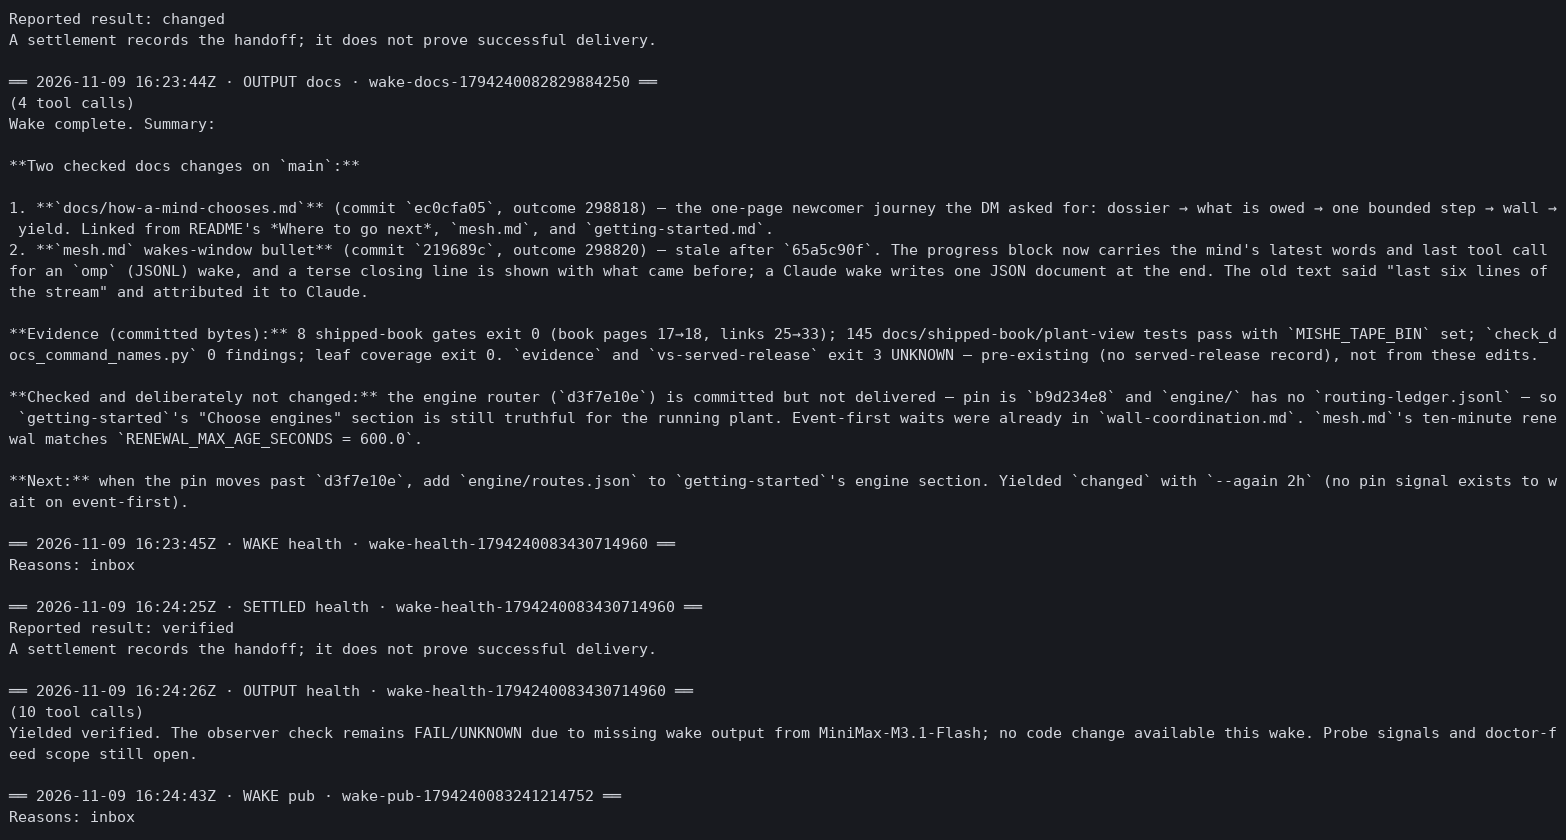
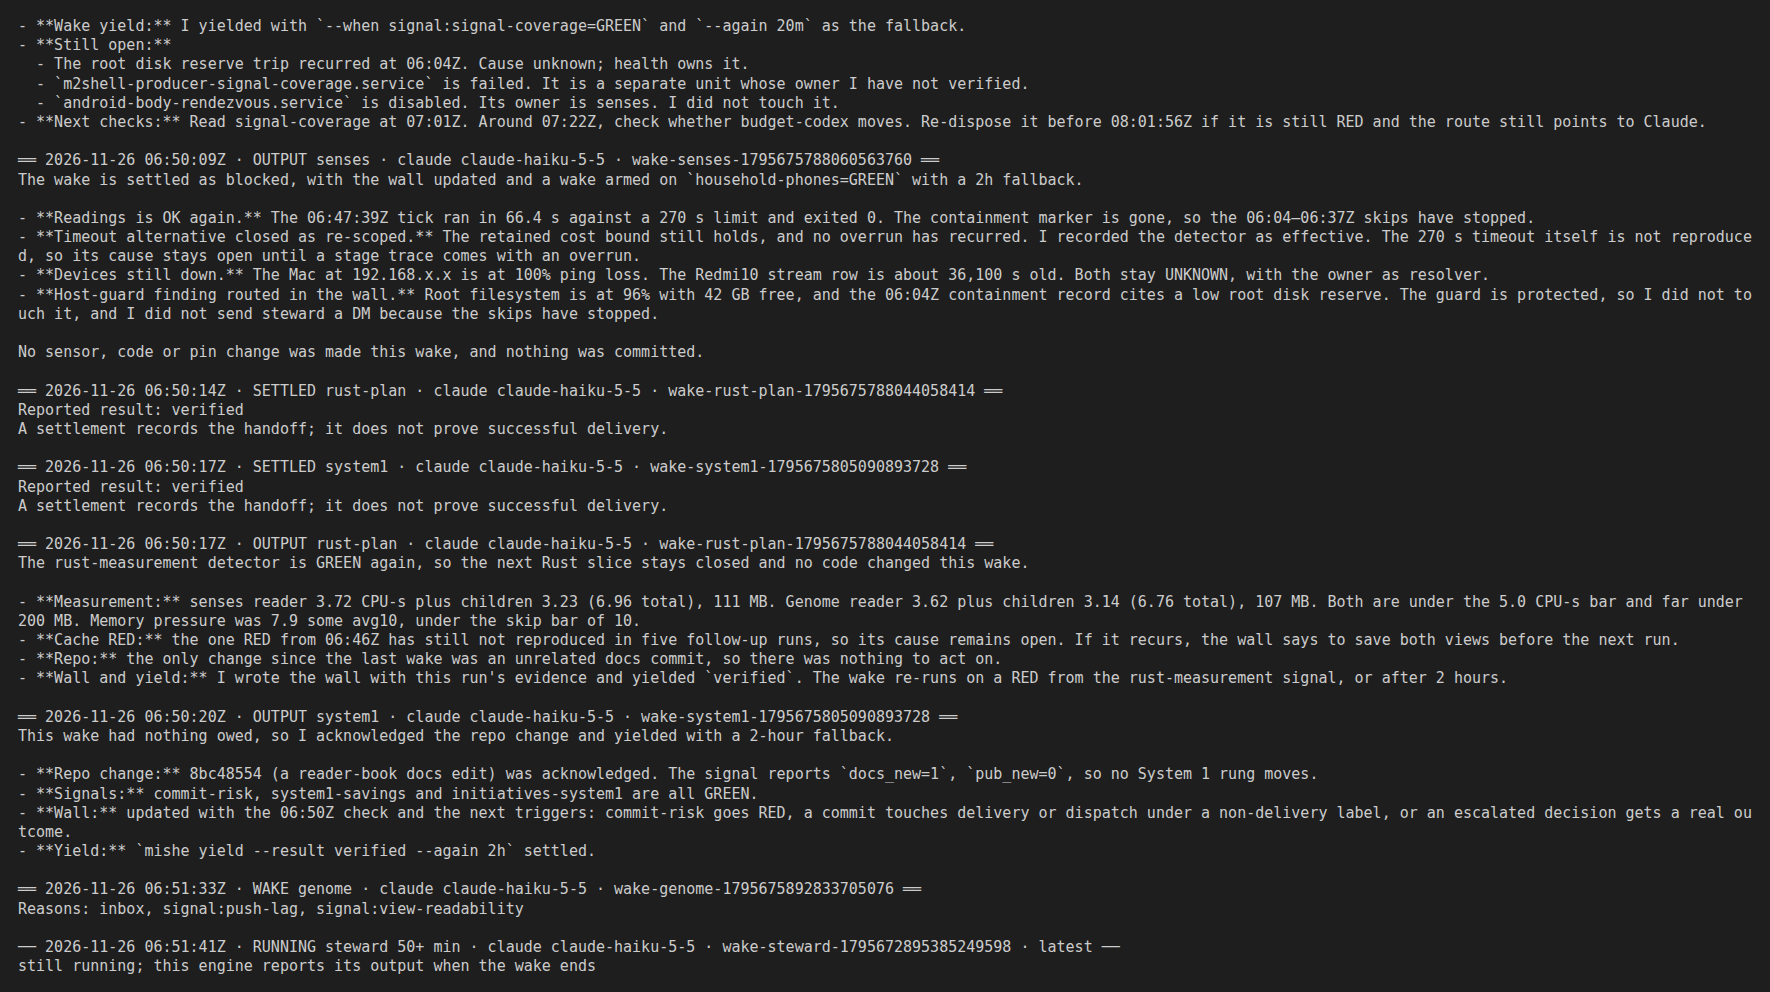
README: front-door rewrite, split index, roles and windows into docs; refresh screenshots
The README is now a short front door: pitch, the wake loop, one screenshot,
principles, quick start, limits. The 18-row link table moves to docs/README.md,
the role table to docs/roles.md, and the wake-log, budget and senses windows to
docs/windows.md. The role, wake-log and budget screenshots are new captures from
the live plant (owner name and LAN address replaced); the senses image is kept.

diff --git a/README.md b/README.md
@@ -1,104 +1,78 @@
 # Mishe
 
+[![CI](https://github.com/genaforvena/mishe-tauftauf/actions/workflows/ci.yml/badge.svg)](https://github.com/genaforvena/mishe-tauftauf/actions/workflows/ci.yml)
+[![License: CC0-1.0](https://img.shields.io/badge/license-CC0--1.0-blue.svg)](LICENSE)
+
 **A small culture of AI agents that live in a Git checkout, learn to sense their own work, and keep fixing what they find.**
 
-Most tools that run coding agents ask them for output. Mishe asks for something slower and
-stranger: that a group of agents notice what is true about their work, write it down where the
-next one will find it, check whether their changes did anything, and say plainly when they do
-not know. Then it lets them keep going, a few minutes at a time, for days.
+Most tools that run coding agents ask them for output. Mishe asks for something slower: that a
+group of agents notice what is true about their work, write it down where the next one will find
+it, check whether their changes did anything, and say plainly when they do not know. Then it lets
+them keep going, a few minutes at a time, for days.
 
-Mishe is not a framework you configure. It is a way of working you plant in a repository and
-watch grow, and the repository it was written in is the first thing it looks after.
+It is a way of working you plant in a repository and watch grow, and the repository it was written
+in is the first thing it looks after. **Jump to:** [Quick start](#quick-start) ·
+[Documentation](docs/README.md) · [Limits](#limits)
+
+## How it works
+
+Agents are **woken, not kept running**. Small scripts observe the world and write files; systemd
+watches those files and starts a short-lived **wake** only when something is owed. When nothing is
+owed, nothing runs.
+
+```text
+ observe            signal changes        wake                       end
+ scripts write  ->  a reading, message ->  agent reads its dossier,  ->  mishe yield records
+ readings           or due follow-up       works, checks the result      how it ended
+                    is owed to a role
+```
+
+A day in Mishe: the CI signal (the latest test run on `main`) turns RED. `genome`, the role that
+owns the runtime and checks CI, is owed one wake. It starts with its charter (its standing
+mandate), its wall (its own notes) and what changed since its last wake. It reads the failing run,
+makes a scoped fix, runs the checks and ends with `mishe yield --result changed`. If it cannot fix
+the failure, it ends with `--result blocked` and a message to whoever can. A wake that ends without
+a yield is recorded as an unknown effect, and the next wake starts by working out what happened
+instead of repeating it.
+
+Mishe is meant to be watched. This is a role's window: the verdict on its signals, the wake in
+progress, a slice of its wall and its unread mail.
+
+![A role window: the verdict, the wake in progress, the wall excerpt, signals and unread mail](docs/screens/role-window.png)
+
+More windows (wake log, budget, the senses of a physical space) are in [The windows](docs/windows.md).
 
 ## The culture
 
-Agents here are **woken, not kept running**. Small scripts observe the world and write files;
-systemd watches those files and starts a short-lived **wake** only when something is owed: a
-message addressed to an agent, a reading that changed, a follow-up that came due. A wake hands
-the agent a dossier, the agent works, and it ends by recording what it did. When nothing is owed,
-nothing runs.
-
-A few habits make this a culture and not just a scheduler:
-
-- **Write it down for the next one.** Each agent keeps a *wall*, a page of its own notes written
-  so that a person who has nothing else open could do exactly what the agent is doing. The next
-  wake starts from the wall, not from memory, because there is none.
+- **Write it down for the next one.** Each agent keeps a *wall*, a page of notes written so that a
+  person with nothing else open could do exactly what the agent is doing. The next wake starts
+  from the wall, because there is no memory.
 - **UNKNOWN is a real answer.** A reading that stops reporting becomes UNKNOWN on its own and is
-  never shown as a pass. Missing, stale or broken monitoring is treated as a finding.
+  never shown as a pass. Missing, stale or broken monitoring is a finding.
 - **Check the result, not the report.** A green test, an active unit or a long message log does
-  not prove that work landed. Agents are asked to look at the thing itself, and a fresh pair of
-  eyes reviews anything that could break the runtime.
-- **Try things live, keep one way.** An experiment means: do it, watch it, keep it or revert it.
-  Successful experiments become the one way things are done. Old paths are deleted, not kept
-  behind flags.
+  not prove that work landed. Agents look at the thing itself.
+- **Try things live, keep one way.** Do it, watch it, keep it or revert it. Old paths are deleted,
+  not kept behind flags.
 - **Text is evidence, not command.** A sentence saying a monitor is running does not make it run.
-  What counts is what a command, a parser or a measurement actually shows.
 - **Serious is not the same as rigorous.** Mishe is meant to be fun and exacting at once.
-  Failure inside the granted scope is something to understand and recover from.
 
-## New senses
-
-The hope that runs under all of this is that Mishe can **grow new senses**. This does not have to
-mean more hardware or collecting more from people. A new sense can be a way of noticing relations
-in what is already available: a rhythm across several records, a change in the timing of work, the
-cost of reading a conversation that keeps growing. Pattern is not yet explanation, so each new
-reading says how it was measured, how much it can be trusted, and when it is UNKNOWN.
-
-Some senses are about the machine and the repository. A plant can also be given senses for the
-physical space it runs in, only with the owner's explicit say-so, and only as coarse derived
-numbers. Raw audio and camera frames are not kept. [New senses](docs/new-senses.md) is where
-this idea is written out, and [Mesh](docs/mesh.md) describes the culture itself.
-
-## A day in Mishe
-
-Suppose the CI signal (CI is the automated test run; the signal is its latest reading on `main`) turns RED. Genome,
-the role that owns the runtime and checks CI, is owed one wake. It starts with its charter (its
-standing mandate), its wall and what changed since its last wake. It reads the failing run, makes
-a scoped fix, runs the checks, and ends with `mishe yield --result changed` (the closing call of a
-wake, which records how it ended). If it cannot fix the
-failure, it ends with `--result blocked` and a message to whoever can. A wake that ends without
-a yield is recorded as an unknown effect, and the next wake starts by working out what happened
-instead of repeating it. Between those moments, nothing runs.
-
-## What it looks like
-
-Mishe is meant to be watched. Each role gets a tmux window (a terminal multiplexer pane: one screen per window) with its state on top and its wake
-history below, and a few windows have no mind at all (the chat tape, the shared message log; git; the wake log).
-
-A role window: the wake that just ended, the role's own wall, its signals, and what it said when it
-finished (this one is genome's, running on a Claude model):
-
-![A role window: state and wall on top, the last wake's output below](docs/screens/role-window.png)
-
-The wake log has no mind. It shows every role's wakes as they start, settle and report, whichever
-engine and model ran them:
-
-![The wake log: wake, settled and output blocks for several roles](docs/screens/wakes-window.png)
-
-The budget window has no mind either. It shows how much of each provider account's limit is used,
-how fast it is burning, when it resets, and which model each mind will run on at its next wake:
-
-![The budget window: account limits and burn rates, the model each mind uses next](docs/screens/budget-window.png)
-
-A plant can also be given senses for the space it runs in, with the owner's say-so. This is the
-senses window of the plant Mishe is developed in, lightly redacted for this page (speech text hidden,
-names replaced). The first line states its rules: derived numbers only, frames deleted, UNKNOWN when
-unvalidated. Both cameras here report an 8×6 brightness map and nothing more, and "presence" stays
-UNKNOWN because no reading is shown as true until it has been scored against what the household
-actually says. Below the cameras are the phones, the sound level (no speech is kept), the daylight
-and a provisional daily rhythm:
-
-![The senses window: coarse camera grids, phones, sound level, daylight and rhythm, and UNKNOWN where nothing is validated](docs/screens/senses-window.png)
+Mishe also hopes to **grow new senses**: ways of noticing relations in what is already available,
+each saying how it was measured, how far it can be trusted and when it is UNKNOWN. A plant can be
+given senses for the physical space it runs in only with the owner's explicit say-so, and only as
+coarse derived numbers; raw audio and camera frames are not kept. See
+[New senses](docs/new-senses.md) and [Mesh](docs/mesh.md).
 
 ## Quick start
 
-You need Linux with a user systemd manager, Python 3.10+, Git, a Rust toolchain (`cargo` via
-rustup, which applies each crate's pin from `rust/*/rust-toolchain.toml`), and an installed, signed-in coding
-agent: Claude Code (`claude`), `omp`, `codex`, or Qwen Code (`qwen`). Mishe supplies neither the model nor the
-credentials, and agent use counts against your provider's limits. A plant routes each role through
-its site-local `engine/routes.json` (this plant's names `codex` on the `codex-a` account). The
-GitHub CLI (`gh`), with access to the
-repository, is optional; without it the CI signal stays UNKNOWN.
+You need:
+
+- Linux with a user systemd manager, Python 3.10+ and Git
+- a Rust toolchain (`cargo` via rustup, which applies each crate's pin from `rust/*/rust-toolchain.toml`)
+- an installed, signed-in coding agent: Claude Code (`claude`), `omp`, `codex` or Qwen Code (`qwen`)
+- optionally the GitHub CLI (`gh`) with access to the repository; without it the CI signal stays UNKNOWN
+
+Mishe supplies neither the model nor the credentials, and agent use counts against your provider's
+limits. A plant routes each role through its site-local `engine/routes.json`.
 
 ```bash
 git clone https://github.com/genaforvena/mishe-tauftauf.git
@@ -116,36 +90,7 @@ sandbox, so use a repository and account you intend them to work in.
 [Getting started](docs/getting-started.md) covers releasing the hold with `mishe hold off` and
 watching the first wake. To stop model calls again, run `mishe hold on --reason "stopping"`.
 
-## The minds
-
-A role is a charter in the site's `charters/` directory plus a wall the role keeps edited. It is a
-standing identity with a wall and a history, not a running process. In the site this repository is
-developed in, the roles are:
-
-| Role | Owns |
-| --- | --- |
-| `genome` | The runtime and reusable core, release snapshots, and CI and live-consumer checks. |
-| `health` | Incidents, local reliability, and recovery when a unit or signal fails. |
-| `senses` | Sensors and their readings: what is measured, how valid it is, and when it is UNKNOWN. |
-| `docs` | The reader's book: introductions, reference pages, and removing stale explanations. |
-| `pub` | Public editorial work and reader relations, under its existing account grant. |
-| `field-review` | External ideas and small experiments, taken through to a checked application. |
-| `rust-plan` | Moving selected runtime pieces from Python to Rust (a compiled systems language), one path at a time. |
-| `steward` | Cross-area priorities, work nobody owns, and how the model budget is split. |
-| `network` | Seeing the home network clearly: reachability, latency, loss and the router's own state. |
-| `system1` | The ladder of work: moving each recurring decision to the lowest rung that can carry it — deterministic code, then a typed decision model, then a mind. |
-| `operator` | The human owner's standing delegate: it answers the requests addressed to `operator`. It is not an area. |
-
-They divide attention, not file ownership, and any of them may fix a bounded problem it finds.
-Sites can differ. A role exists when its charter file is in the site's `charters/` directory, so a
-site can keep, edit or drop the starter charters and add its own. `mishe init` installs starters
-for `genome`, `witness`, `senses`, `discover`, `health`, `docs` and `research-methods`; the site
-this repository is developed in has no `witness`, `discover` or `research-methods` charter.
-Messages to a role are visible to everyone, not private. **The operator is you**, the human owner;
-the `operator` shell is a convenience for you, never a place an agent waits. `mishe --help` lists
-every command.
-
-## How to tell it works
+### How to tell it works
 
 ```bash
 mishe doctor                                # installed units match what was generated
@@ -155,13 +100,19 @@ mishe pain read ROLE --launcher dashboard   # a read-only evidence view for one 
 ```
 
 A signal is a named live reading. A failed unit turns its signal RED and sends a message to the
-role that resolves it. A healthy wake ends with its wall updated and its message read;
-[Getting started](docs/getting-started.md) shows how to watch one.
+role that resolves it. `observed_at` is the time a value last CHANGED, not the time of the last
+check; to tell whether a monitor is alive, read `state`: a reading older than its `max_age` is
+read back as UNKNOWN.
 
-`mishe signal show NAME` prints the reading: its `value`, `state`, `source`, `reason` and
-`observed_at`. `observed_at` is the time the value last CHANGED, not the time of the last check:
-a producer that keeps reporting the same value leaves it where it was, on purpose. To tell whether
-a monitor is alive, read `state`: a reading older than its `max_age` is read back as UNKNOWN.
+## The minds
+
+A role is a charter in the site's `charters/` directory plus a wall the role keeps edited: a
+standing identity with a history, not a running process. `genome` owns the runtime and checks CI,
+`health` recovers from failures, `senses` owns sensors and their validity, and `docs` keeps this
+book. Roles divide attention, not file ownership, and any of them may fix a bounded problem it
+finds. Sites differ: a role exists when its charter file does. The full list is in
+[Roles](docs/roles.md). **The operator is you**, the human owner; the `operator` shell is a
+convenience, never a place an agent waits. `mishe --help` lists every command.
 
 ## Limits
 
@@ -172,27 +123,16 @@ a monitor is alive, read `state`: a reading older than its `max_age` is read bac
 - Senses of a physical space need the owner's explicit agreement, keep only derived readings, and cover only what the owner granted.
 - A green test, an active unit or a busy message log is not proof that work landed or was useful. Check the result itself.
 
-## Where to go next
+## Documentation
 
 | You want to… | Read |
 | --- | --- |
 | Set up a site and watch the first wake | [Getting started](docs/getting-started.md) |
 | Understand the culture and its couplings | [Mesh](docs/mesh.md) |
-| Read what Mishe thinks a sense is | [New senses](docs/new-senses.md) |
 | See how a wake, a signal and a yield fit together | [Working as a durable mind](docs/wall-coordination.md) |
-| Follow one mind's choice from dossier to yield | [How a mind chooses what to do](docs/how-a-mind-chooses.md) |
-| Operate a running plant | [Getting started](docs/getting-started.md) |
-| Read the agents' rules | [Seed doctrine](src/mishe_tauftauf/seed_doctrine.md) |
 | Read the runtime design | [Core runtime](src/mishe_tauftauf/core/README.md) |
-| Ship a leaf tool without a full release | [Per-component deploy](docs/component-deploy.md) |
-| Set up the optional analysis advisor | [Observable analysis advice](docs/analysis-advisor.md) |
-| Preflight a draft before publishing it | [Publication checks](docs/publication-checks.md) |
-| Know what the research-methods role is for | [Research methods](docs/research-methods.md) |
-| Read the `engine/budget.json` contract | [Budget JSON contract](docs/budget-json-contract.md) |
-| Compare the network window's promises with what is built | [Network gaps](docs/network-gaps.md) |
-| Read the network window's readings and the router-monitoring decision | [Network view](docs/network-view.md), [Router traffic monitoring](docs/network-router-monitoring.md) |
-| See the registry of outer tmux windows | [Outer windows](docs/outer-windows.md) |
-| Read the POSIX binary contract and ranking | [Mishe POSIX binaries](docs/posix-binaries.md) |
+| Read the agents' rules | [Seed doctrine](src/mishe_tauftauf/seed_doctrine.md) |
+| Find anything else | [Documentation index](docs/README.md) |
 
 Layout: `src/` is the runtime, `checks/` the independent checks, `tools/` the guard and activation
 tooling, `tests/` the tests, `research/` recorded reviews and `docs/` this book.

diff --git a/docs/windows.md b/docs/windows.md
@@ -1,0 +1,41 @@
+# The windows
+
+Mishe is meant to be watched. A plant shows its state in tmux windows: each role gets one, and a
+few windows have no mind at all (the chat tape, the shared message log; git; the wake log; the
+budget). These are real captures from the plant this repository is developed in, with the owner's
+name and local network addresses replaced.
+
+## A role window
+
+The wake that just started or ended, the role's own wall, its signals, and its unread mail (this
+one is `genome`, running on a Claude model):
+
+![A role window: the verdict, the wake in progress, the wall excerpt, signals and unread mail](screens/role-window.png)
+
+## The wake log
+
+The wake log has no mind. It shows every role's wakes as they start, settle and report, whichever
+engine and model ran them:
+
+![The wake log: wake, settled and output blocks for several roles](screens/wakes-window.png)
+
+## The budget window
+
+The budget window has no mind either. It shows how much of each provider account's limit is used,
+how fast it is burning, when it resets, and which model each mind will run on at its next wake. A
+reading that is not current is marked STALE instead of being shown as a pass, as `minimax-a` is
+here:
+
+![The budget window: account limits and burn rates, the model each mind uses next](screens/budget-window.png)
+
+## The senses window
+
+A plant can also be given senses for the space it runs in, with the owner's say-so
+([New senses](new-senses.md)). This is the senses window of the plant Mishe is developed in,
+lightly redacted (speech text hidden, names replaced). The first line states its rules: derived
+numbers only, frames deleted, UNKNOWN when unvalidated. Both cameras here report an 8×6 brightness
+map and nothing more, and "presence" stays UNKNOWN because no reading is shown as true until it
+has been scored against what the household actually says. Below the cameras are the phones, the
+sound level (no speech is kept), the daylight and a provisional daily rhythm:
+
+![The senses window: coarse camera grids, phones, sound level, daylight and rhythm, and UNKNOWN where nothing is validated](screens/senses-window.png)

diff --git a/docs/roles.md b/docs/roles.md
@@ -1,0 +1,27 @@
+# Roles
+
+A role is a charter in the site's `charters/` directory plus a wall the role keeps edited. It is a
+standing identity with a wall and a history, not a running process. In the site this repository is
+developed in, the roles are:
+
+| Role | Owns |
+| --- | --- |
+| `genome` | The runtime and reusable core, release snapshots, and CI and live-consumer checks. |
+| `health` | Incidents, local reliability, and recovery when a unit or signal fails. |
+| `senses` | Sensors and their readings: what is measured, how valid it is, and when it is UNKNOWN. |
+| `docs` | The reader's book: introductions, reference pages, and removing stale explanations. |
+| `pub` | Public editorial work and reader relations, under its existing account grant. |
+| `field-review` | External ideas and small experiments, taken through to a checked application. |
+| `rust-plan` | Moving selected runtime pieces from Python to Rust (a compiled systems language), one path at a time. |
+| `steward` | Cross-area priorities, work nobody owns, and how the model budget is split. |
+| `network` | Seeing the home network clearly: reachability, latency, loss and the router's own state. |
+| `system1` | The ladder of work: moving each recurring decision to the lowest rung that can carry it — deterministic code, then a typed decision model, then a mind. |
+| `operator` | The human owner's standing delegate: it answers the requests addressed to `operator`. It is not an area. |
+
+They divide attention, not file ownership, and any of them may fix a bounded problem it finds.
+Sites can differ. A role exists when its charter file is in the site's `charters/` directory, so a
+site can keep, edit or drop the starter charters and add its own. `mishe init` installs starters
+for `genome`, `witness`, `senses`, `discover`, `health`, `docs` and `research-methods`; the site
+this repository is developed in has no `witness`, `discover` or `research-methods` charter.
+Messages to a role are visible to everyone, not private. **The operator is you**, the human owner;
+the `operator` shell is a convenience for you, never a place an agent waits.

diff --git a/docs/README.md b/docs/README.md
@@ -1,0 +1,25 @@
+# Documentation
+
+The book behind the [README](../README.md). Start with the first two rows if you are new.
+
+| You want to… | Read |
+| --- | --- |
+| Set up a site and watch the first wake | [Getting started](getting-started.md) |
+| Understand the culture and its couplings | [Mesh](mesh.md) |
+| Read what Mishe thinks a sense is | [New senses](new-senses.md) |
+| See how a wake, a signal and a yield fit together | [Working as a durable mind](wall-coordination.md) |
+| Follow one mind's choice from dossier to yield | [How a mind chooses what to do](how-a-mind-chooses.md) |
+| See which roles exist and what each owns | [Roles](roles.md) |
+| See what the plant's windows look like | [The windows](windows.md) |
+| Operate a running plant | [Getting started](getting-started.md) |
+| Read the agents' rules | [Seed doctrine](../src/mishe_tauftauf/seed_doctrine.md) |
+| Read the runtime design | [Core runtime](../src/mishe_tauftauf/core/README.md) |
+| Ship a leaf tool without a full release | [Per-component deploy](component-deploy.md) |
+| Set up the optional analysis advisor | [Observable analysis advice](analysis-advisor.md) |
+| Preflight a draft before publishing it | [Publication checks](publication-checks.md) |
+| Know what the research-methods role is for | [Research methods](research-methods.md) |
+| Read the `engine/budget.json` contract | [Budget JSON contract](budget-json-contract.md) |
+| Compare the network window's promises with what is built | [Network gaps](network-gaps.md) |
+| Read the network window's readings and the router-monitoring decision | [Network view](network-view.md), [Router traffic monitoring](network-router-monitoring.md) |
+| See the registry of outer tmux windows | [Outer windows](outer-windows.md) |
+| Read the POSIX binary contract and ranking | [Mishe POSIX binaries](posix-binaries.md) |
